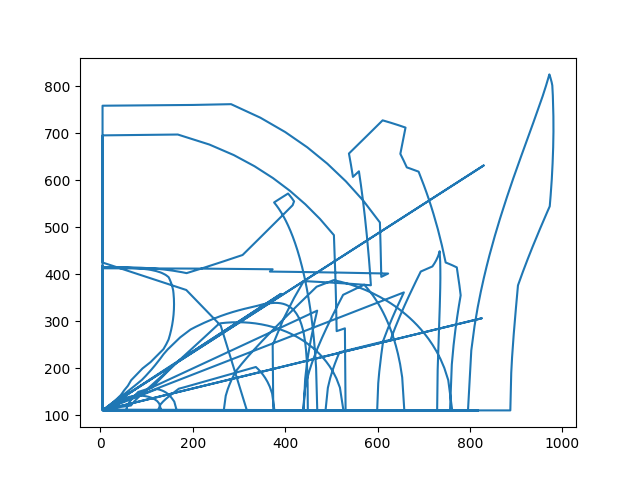
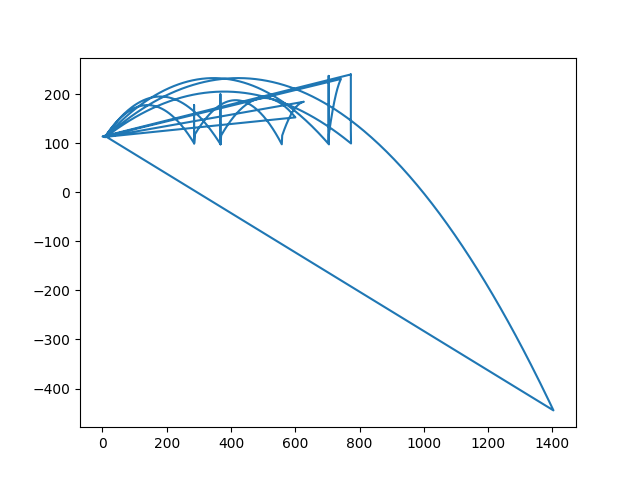
improved

diff --git a/prototype2.py b/prototype2.py
@@ -5,8 +5,6 @@ import matplotlib.pyplot as plt
 pygame.init()
 width = 800
 height = 600
-mousex = width/2
-mousey = height/2
 window = pygame.display.set_mode((width,height))
 pygame.display.set_caption("Projectile Motion")
 clock = pygame.time.Clock()
@@ -19,73 +17,65 @@ white = (255,255,255)
 green = (0,100,0)
 red = (255,0,0)
 black = (0,0,0)
+velocities = []
+time = []
+x = []
+y = []
 
 class Ball():
     def __init__(self) -> None:
         self.ball_r = pygame.Rect(5,ground.y-10,10,10)
-        self.ball_r2 = pygame.Rect(5,ground.y-10,10,10)
-        self.velocities = []
-        self.time = []
-        self.x = []
-        self.y = []
-        self.mousex = width/2
-        self.mousey = height/2
         self.duration = 0
-    def controls(self):
+        self.newx = 0
+        self.newy = 0
+
+    def controls(self,mousex,mousey):
         keys = pygame.key.get_pressed()
         if keys[pygame.K_LEFT]:
-            self.mousex-=5
+            mousex-=5
         if keys[pygame.K_RIGHT]:
-            self.mousex+=5
+            mousex+=5
         if keys[pygame.K_UP]:
-            self.mousey-=5
+            mousey-=5
         if keys[pygame.K_DOWN]:
-            self.mousey+=5
-        return self.mousex,self.mousey
-    def movement(self,vvelocity,hvelocity):
-        first = True
-        self.stop = False
-        self.newx = self.ball_r.x
-        self.newy = self.ball_r.y
-        distancex = 0
-        distancey = 0
-        duration = 0
-        if self.stop == False:
-            if first == True:
-                statichvel = hvelocity
-                staticvvel = vvelocity
-                mag = math.sqrt(hvelocity**2+vvelocity**2)
-                self.velocities.append(mag)
-                first = False
-            self.duration+=0.1
-            self.time.append(self.duration)
-            distancex = (statichvel/2)*self.duration
-            distancey = ((staticvvel/2)*self.duration)+((-4.9*(duration**2))/2)
+            mousey+=5
+        return mousex,mousey
+    
+    def movement(self,hvelocity,vvelocity,duration,first,back):
+        if first == True:
+            mag = math.sqrt(hvelocity**2+vvelocity**2)
+            velocities.append(mag)
+            first = False
+        duration+=0.1
+        time.append(duration)
+        distancex = (hvelocity/2)*duration            
+        distancey = ((vvelocity/2)*duration)+((-4.9 * (duration**2))/2)
         if back == True:
-            self.newx = ((self.ball_r.x)-distancex)
+            newx = ((b.ball_r.x)-distancex)
         else:
-            self.newx = ((self.ball_r.x)+distancex)
-        self.x.append(self.newx)
-        self.newy = (self.ball_r.y-distancey)
-        self.y.append(height-self.newy)
-        self.ball_r2 = pygame.Rect(self.newx,self.newy,10,10)
-        pygame.draw.rect(window,black,self.ball_r2)
-        return self.x,self.y
-    def collsion(self):
-        self.stop = True
-        self.first = True
-        self.duration = 0
-        self.ball_r.x = self.ball_r2.x
-        self.ball_r.y = self.ball_r2.y-15
+            newx = ((b.ball_r.x)+distancex)
+        back = False
+        x.append(newx)
+        newy = (b.ball_r.y-distancey)
+        y.append(height-newy)
+        ball_r2 = pygame.Rect(newx,newy,10,10)
+        return x,y,velocities,time,duration,ball_r2
+
     def reset(self):
         self.duration = 0
-        self.ball_r.x = 5
-        self.ball_r2.y = height-110
-        self.newx = self.ball_r.x
-        self.newy = self.ball_r.y
+        b.ball_r.x = 5
+        b.ball_r.y = height-110
+        self.newx = b.ball_r.x
+        self.newy = b.ball_r.y
+        self.stop = False
+        first = True
+        return first
+        # reset not doing its thing
+
 class Calculations():
     def __init__(self) -> None:
         self.gravity = 9.81
+
     def velocity(self,gravity,vdistance,hdistance,angle):
         try:
             vvelocity = round(math.sqrt(2*gravity*vdistance),2)
@@ -96,6 +86,7 @@ class Calculations():
         except ValueError:
             hvelocity = 0
         return vvelocity,hvelocity
+    
     def angle(self,back,lenx,leny,ball_r):
         try:
             angle = round(math.degrees(math.atan(leny/lenx)))
@@ -105,45 +96,72 @@ class Calculations():
         except ZeroDivisionError:
             angle = 90
         return angle,back
+    
     def distance(self,lenx,leny):
-        hdistance = round(lenx,2)
-        vdistance = round(leny,2)
+        hdistance = round(lenx*10,2)
+        vdistance = round(leny*10,2)
         return hdistance,vdistance
+    
     def graphs(self,x,y):
         plt.plot(x,y)
-        plt.savefig("graph.png")
+        plt.savefig("xy.png")
+        plt.plot(velocities,time)
+        plt.savefig("velocitytime.png")
+
+def draw(ball_r2,mousex,mousey):
+    pygame.draw.rect(window,green,ground)
+    pygame.draw.rect(window,white,collision)
+    pygame.draw.rect(window,white,b.ball_r)
+    pygame.draw.line(window,red,pygame.math.Vector2(ball_r2.x+10,ball_r2.y),pygame.math.Vector2(mousex,mousey),5)
+    pygame.draw.rect(window,black,ball_r2)
+
+def text(vvelocity,hvelocity,angle,duration):
+    window.blit(font.render(f"Vertical Velocity: {round(vvelocity/50,2)}m/s", True, black, None), (2,40))
+    window.blit(font.render(f"Horizonal Velocity: {round(hvelocity/50,2)}m/s", True, black, None), (2,80))
+    window.blit(font.render(f"Angle: {angle}°", True, black, None),(2,0))
+    window.blit(font.render(f"Time: {round(duration,2)}s", True, black, None),(2,120))
+    window.blit(font.render("1m", True, black, None),((100),b.ball_r.y+10))
 
 def mainloop():
     run = True
     back = False
-    c = Calculations()
-    b = Ball()
+    stop = False
+    first = True
+    duration = 0
+    mousex = width/2
+    mousey = height/2
+    ball_r2 = pygame.Rect(5,ground.y-10,10,10)
     while run:
         for event in pygame.event.get():
             if event.type == pygame.QUIT:
                 c.graphs(x,y)
                 run = False
         window.fill(white)
-        mousex,mousey = b.controls()
-        pygame.draw.rect(window,green,ground)
-        pygame.draw.rect(window,white,collision)
-        pygame.draw.rect(window,black,b.ball_r)
-        pygame.draw.rect(window,black,b.ball_r2)
-        pygame.draw.line(window,red,pygame.math.Vector2(b.ball_r2.x+10,b.ball_r2.y),pygame.math.Vector2(mousex,mousey),5)
-        leny = height-((mousey+b.ball_r.y)-380)
-        lenx = mousex-(b.ball_r.x+10)
+        mousex,mousey = b.controls(mousex,mousey)
+        leny = (height-((mousey+b.ball_r.y)-380))/10
+        lenx = (mousex-(b.ball_r.x+10))/10
+        draw(ball_r2,mousex,mousey)
         hdistance,vdistance = c.distance(lenx,leny)
         angle,back = c.angle(back,lenx,leny,b.ball_r)
-        vvelocity,hvelocity = c.velocity(c.gravity,vdistance,hdistance,angle)
+        if first == True:
+            vvelocity,hvelocity = c.velocity(c.gravity,vdistance,hdistance,angle)
+        text(vvelocity,hvelocity,angle,duration)
         keys = pygame.key.get_pressed()
         if keys[pygame.K_a]:
-            b.reset()
-        if keys[pygame.K_SPACE]:
-            x,y = b.movement(vvelocity,hvelocity)
-        if pygame.Rect.contains(ground,b.ball_r2):
-            b.collision()
+            first = b.reset()
+        if keys[pygame.K_SPACE] and stop == False:
+            x,y,velocities,time,duration,ball_r2 = b.movement(hvelocity,vvelocity,duration,first,back)
+        if pygame.Rect.contains(ground,ball_r2):
+            stop = True
+            first = True
+            duration = 0
+            b.ball_r.x = ball_r2.x
+            b.ball_r.y = ball_r2.y-15
+            stop = False
         pygame.display.update()
         clock.tick(fps)
     pygame.quit()
 
+c = Calculations()
+b = Ball()
 mainloop()
